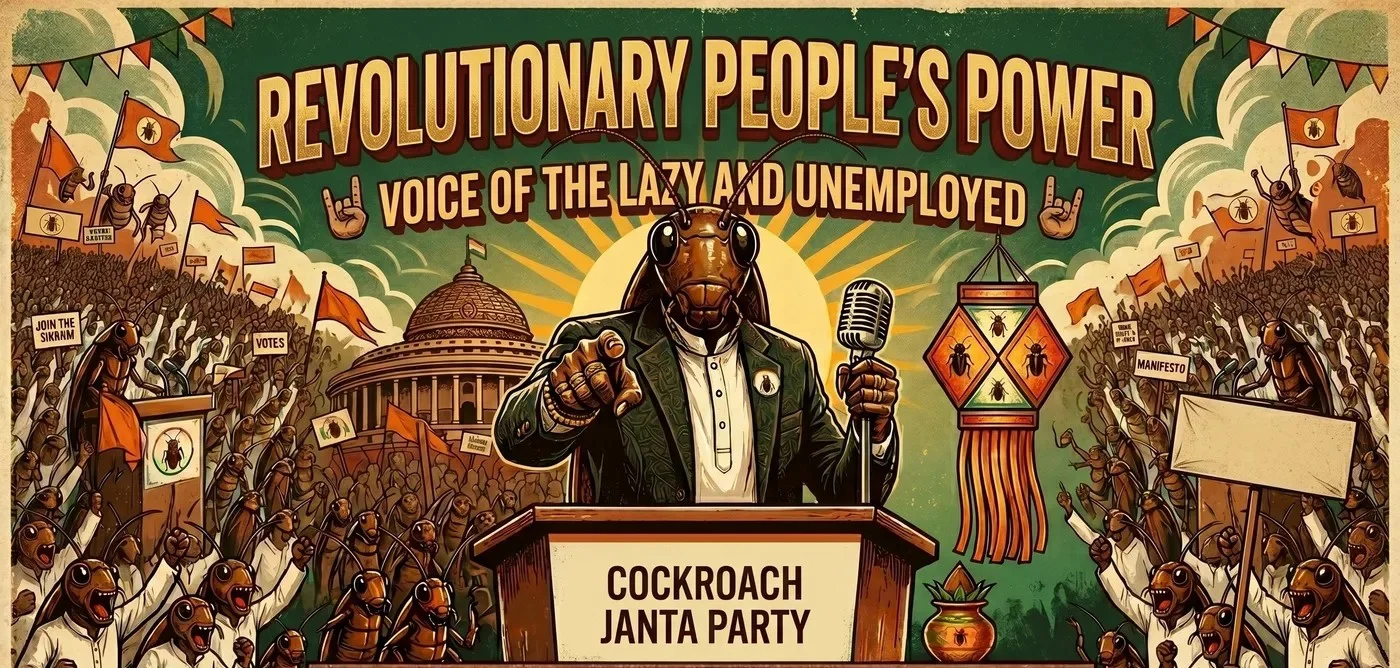
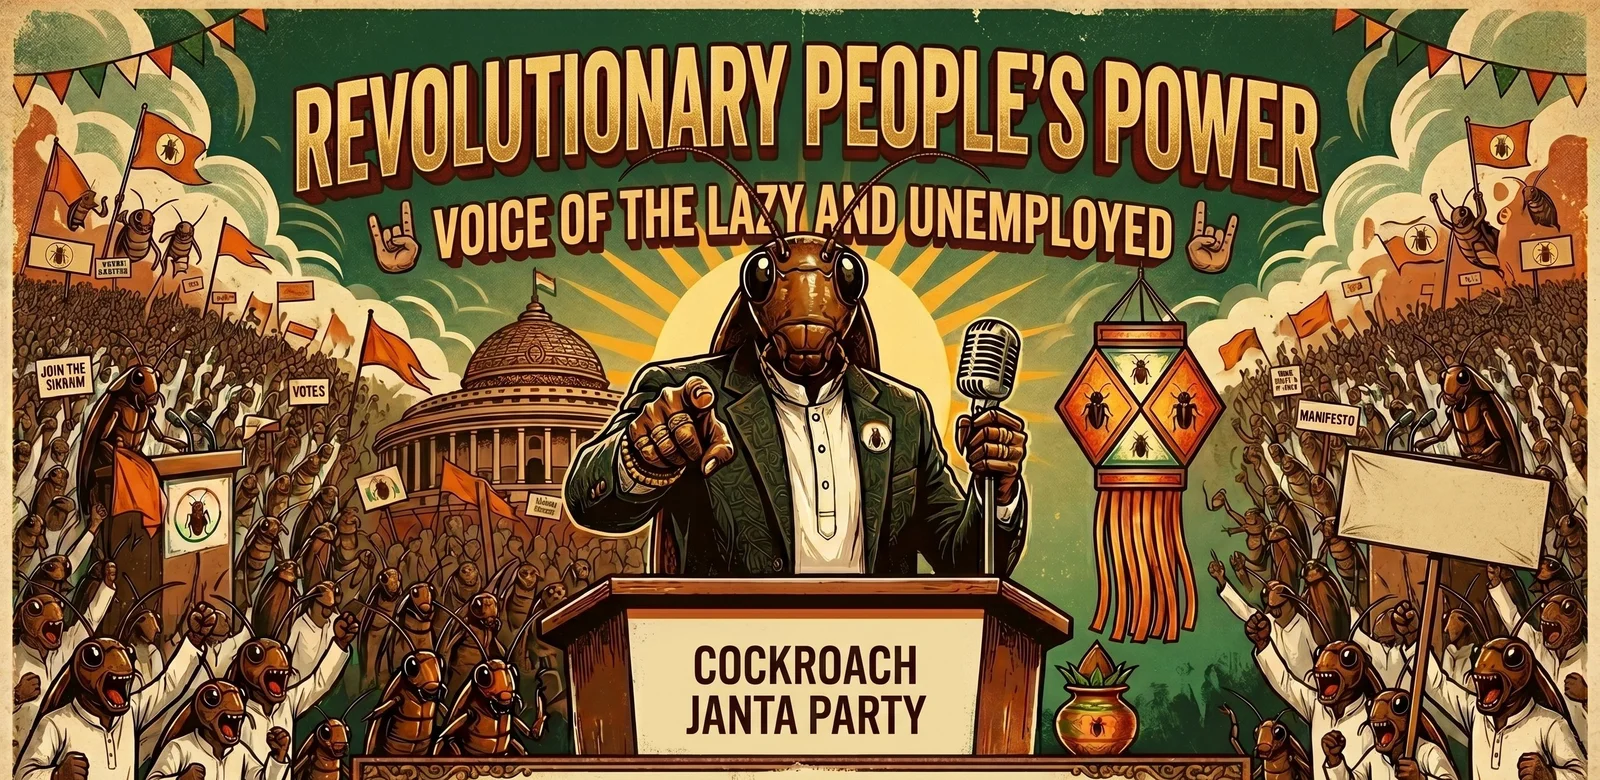
Add files via upload

diff --git a/index.html b/index.html
@@ -91,15 +91,16 @@
     #hero{
       min-height:100vh;
       display:flex;flex-direction:column;align-items:center;justify-content:flex-start;
-      text-align:center;padding:58px 0 0;
+      text-align:center;padding:0;
       position:relative;overflow:hidden;
     }
 
-    /* BANNER — full-width edge-to-edge */
+    /* BANNER — full-width edge-to-edge, with navbar clearance + breathing room */
     .hero-banner{
       width:100%;max-width:100%;display:block;
       object-fit:cover;object-position:center top;
-      max-height:80vh;
+      margin-top:58px; /* navbar height */
+      padding-top:12px; /* extra breathing space between nav and banner */
       animation:fadeIn .8s ease both;
     }
     .flag-bar{width:100%;height:5px;background:linear-gradient(90deg,var(--o) 33.3%,var(--w) 33.3% 66.6%,var(--g) 66.6%);flex-shrink:0;}
@@ -167,6 +168,92 @@
     .c-bar:nth-child(3){background:var(--gl);animation-delay:.4s}
     .c-bar:nth-child(4){background:#60A5FF;animation-delay:.6s}
     @keyframes barPulse{0%,100%{opacity:.3;transform:scaleX(.7)}50%{opacity:1;transform:scaleX(1)}}
+
+    /* ── MASCOT / CHARACTER SECTION ── */
+    #mascot{background:linear-gradient(160deg,rgba(0,71,171,.1) 0%,rgba(6,14,43,0) 50%,rgba(19,136,8,.08) 100%);}
+    .mascot-inner{display:grid;grid-template-columns:340px 1fr;gap:56px;align-items:center;max-width:980px;margin:0 auto;padding:80px 20px;}
+    .mascot-figure{position:relative;display:flex;flex-direction:column;align-items:center;}
+    .mascot-svg-wrap{
+      position:relative;
+      width:280px;height:280px;
+    }
+    /* animated glow ring */
+    .mascot-ring{
+      position:absolute;inset:-14px;border-radius:50%;
+      border:2px solid transparent;
+      background:conic-gradient(var(--o),var(--w),var(--g),var(--b),var(--o)) border-box;
+      -webkit-mask:linear-gradient(#fff 0 0) padding-box,linear-gradient(#fff 0 0);
+      -webkit-mask-composite:destination-out;mask-composite:exclude;
+      animation:spinRing 6s linear infinite;
+    }
+    @keyframes spinRing{to{transform:rotate(360deg);}}
+    .mascot-avatar{
+      width:280px;height:280px;border-radius:50%;overflow:hidden;
+      background:radial-gradient(circle at 40% 35%,#1a4a1e,#0d2b0f);
+      border:3px solid rgba(255,107,0,.4);
+      box-shadow:0 0 40px rgba(255,107,0,.2),0 20px 60px rgba(0,0,0,.5);
+      display:flex;align-items:center;justify-content:center;
+      position:relative;
+    }
+    /* The cockroach character SVG inside */
+    .mascot-avatar svg{width:220px;height:220px;}
+    .mascot-name{
+      font-family:'Playfair Display',serif;font-weight:900;
+      font-size:1.1rem;color:var(--ol);margin-top:16px;
+      letter-spacing:.04em;
+    }
+    .mascot-title{
+      font-family:'Rajdhani',sans-serif;font-size:.7rem;
+      letter-spacing:.2em;text-transform:uppercase;
+      color:rgba(255,255,255,.4);margin-top:4px;
+    }
+    .mascot-est{
+      display:inline-block;
+      background:rgba(255,107,0,.12);border:1px solid rgba(255,107,0,.3);
+      font-family:'Rajdhani',sans-serif;font-size:.68rem;letter-spacing:.18em;
+      text-transform:uppercase;color:var(--ol);padding:4px 14px;border-radius:12px;margin-top:10px;
+    }
+    /* speech bubble */
+    .mascot-speech{
+      background:rgba(255,255,255,.04);border:1px solid rgba(255,255,255,.1);
+      border-radius:12px 12px 12px 0;padding:28px 32px;position:relative;
+    }
+    .mascot-speech::before{
+      content:'';position:absolute;bottom:-1px;left:-18px;
+      width:0;height:0;
+      border-top:18px solid transparent;
+      border-right:20px solid rgba(255,255,255,.1);
+      border-bottom:0;
+    }
+    .mascot-speech::after{
+      content:'';position:absolute;bottom:0;left:-16px;
+      width:0;height:0;
+      border-top:16px solid transparent;
+      border-right:18px solid rgba(255,255,255,.04);
+      border-bottom:0;
+    }
+    .speech-tag{font-family:'Rajdhani',sans-serif;font-weight:700;font-size:.68rem;letter-spacing:.22em;text-transform:uppercase;color:var(--o);margin-bottom:10px;display:block;}
+    .speech-quote{
+      font-family:'Playfair Display',serif;font-style:italic;
+      font-size:clamp(1.1rem,2.5vw,1.55rem);line-height:1.45;color:#fff;
+      margin-bottom:18px;
+    }
+    .speech-body{font-size:.88rem;line-height:1.78;color:rgba(255,255,255,.6);}
+    .speech-body strong{color:#fff;}
+    .speech-stats{display:flex;gap:24px;margin-top:22px;flex-wrap:wrap;}
+    .sp-stat{display:flex;flex-direction:column;}
+    .sp-stat-n{font-family:'Rajdhani',sans-serif;font-weight:700;font-size:1.5rem;color:var(--ol);line-height:1;}
+    .sp-stat-l{font-size:.65rem;letter-spacing:.14em;text-transform:uppercase;color:rgba(255,255,255,.38);margin-top:3px;}
+
+    @media(max-width:768px){
+      .mascot-inner{grid-template-columns:1fr;gap:32px;padding:60px 16px;}
+      .mascot-figure{flex-direction:row;gap:20px;align-items:flex-start;justify-content:center;}
+      .mascot-svg-wrap,.mascot-avatar{width:120px;height:120px;}
+      .mascot-avatar svg{width:100px;height:100px;}
+      .mascot-ring{inset:-8px;}
+      .mascot-speech{border-radius:12px;}
+      .mascot-speech::before,.mascot-speech::after{display:none;}
+    }
 
     /* ── VISION ── */
     .vision-grid{display:grid;grid-template-columns:1fr 1fr;gap:22px;margin-top:44px;}
@@ -393,6 +480,115 @@
       <div class="c-bar"></div><div class="c-bar"></div>
       <div class="c-bar"></div><div class="c-bar"></div>
     </div>
+  </div>
+</section>
+
+<hr class="divider"/>
+
+<!-- MASCOT CHARACTER — Neta Ji Kakradev -->
+<section id="mascot">
+  <div class="mascot-inner reveal">
+
+    <!-- Character figure -->
+    <div class="mascot-figure">
+      <div class="mascot-svg-wrap">
+        <div class="mascot-ring"></div>
+        <div class="mascot-avatar">
+          <!-- Hand-drawn cockroach politician SVG character -->
+          <svg viewBox="0 0 220 220" xmlns="http://www.w3.org/2000/svg">
+            <!-- background glow -->
+            <radialGradient id="bodyGlow" cx="50%" cy="60%" r="50%">
+              <stop offset="0%" stop-color="#2a6b2e" stop-opacity=".6"/>
+              <stop offset="100%" stop-color="#0d2b0f" stop-opacity="0"/>
+            </radialGradient>
+            <circle cx="110" cy="130" r="80" fill="url(#bodyGlow)"/>
+
+            <!-- SUIT JACKET -->
+            <path d="M58 165 Q55 200 50 220 L170 220 Q165 200 162 165 Q145 155 132 148 L128 158 L110 162 L92 158 L88 148 Q75 155 58 165Z" fill="#1a3a1c"/>
+            <!-- jacket lapels -->
+            <path d="M92 148 L88 148 L72 155 L80 168 L92 158Z" fill="#142e16"/>
+            <path d="M128 148 L132 148 L148 155 L140 168 L128 158Z" fill="#142e16"/>
+            <!-- shirt white -->
+            <path d="M96 148 L92 158 L100 172 L110 170 L120 172 L128 158 L124 148 L110 152Z" fill="#e8e8e8"/>
+            <!-- tie — saffron -->
+            <path d="M106 152 L110 156 L114 152 L112 148 L108 148Z" fill="var(--o)"/>
+            <path d="M107 156 L110 178 L113 156 L110 162Z" fill="var(--o)"/>
+            <!-- CJP badge on lapel -->
+            <circle cx="88" cy="160" r="6" fill="#C8A83A"/>
+            <text x="88" y="163" text-anchor="middle" font-size="4" font-family="Arial" font-weight="bold" fill="#0d2b0f">CJP</text>
+
+            <!-- NECK -->
+            <rect x="103" y="128" width="14" height="22" rx="4" fill="#6B3A1F"/>
+
+            <!-- HEAD — cockroach -->
+            <ellipse cx="110" cy="105" rx="38" ry="35" fill="#7a3f1e"/>
+            <!-- head sheen -->
+            <ellipse cx="102" cy="92" rx="12" ry="8" fill="rgba(255,255,255,.08)" transform="rotate(-15,102,92)"/>
+
+            <!-- EYES — big compound -->
+            <ellipse cx="93" cy="98" rx="13" ry="14" fill="#111"/>
+            <ellipse cx="127" cy="98" rx="13" ry="14" fill="#111"/>
+            <!-- eye shine -->
+            <circle cx="97" cy="93" r="4" fill="#3a3aff" opacity=".6"/>
+            <circle cx="131" cy="93" r="4" fill="#3a3aff" opacity=".6"/>
+            <circle cx="94" cy="91" r="2" fill="#fff" opacity=".8"/>
+            <circle cx="128" cy="91" r="2" fill="#fff" opacity=".8"/>
+
+            <!-- ANTENNAE -->
+            <path d="M100 72 Q85 55 68 38" stroke="#6B3A1F" stroke-width="2.5" fill="none" stroke-linecap="round"/>
+            <path d="M120 72 Q135 55 152 38" stroke="#6B3A1F" stroke-width="2.5" fill="none" stroke-linecap="round"/>
+            <!-- antennae tips -->
+            <circle cx="68" cy="38" r="3.5" fill="#8B4A25"/>
+            <circle cx="152" cy="38" r="3.5" fill="#8B4A25"/>
+
+            <!-- MOUTH / expression — slight smirk -->
+            <path d="M101 118 Q110 125 119 118" stroke="#4a2008" stroke-width="2" fill="none" stroke-linecap="round"/>
+
+            <!-- pointing finger hand (right side) -->
+            <path d="M162 148 Q170 140 166 130 Q175 125 172 115 Q165 115 162 122 Q158 115 152 118 Q150 126 155 130 Q150 138 155 148Z" fill="#7a3f1e"/>
+            <!-- finger point -->
+            <path d="M166 130 Q178 120 186 108 Q180 104 172 115Z" fill="#7a3f1e"/>
+
+            <!-- left hand holding mic (simplified) -->
+            <rect x="45" y="138" width="8" height="28" rx="4" fill="#555" opacity=".8"/>
+            <ellipse cx="49" cy="135" rx="10" ry="12" fill="#444"/>
+            <!-- mic grille lines -->
+            <line x1="42" y1="133" x2="56" y2="133" stroke="#666" stroke-width="1"/>
+            <line x1="42" y1="136" x2="56" y2="136" stroke="#666" stroke-width="1"/>
+            <line x1="42" y1="139" x2="56" y2="139" stroke="#666" stroke-width="1"/>
+            <!-- hand holding mic -->
+            <path d="M35 148 Q32 145 36 138 Q42 135 50 138 Q54 144 50 150Z" fill="#7a3f1e"/>
+
+            <!-- Indian flag pin sparkle on jacket -->
+            <circle cx="135" cy="158" r="3" fill="var(--o)" opacity=".7"/>
+          </svg>
+        </div>
+      </div>
+      <div>
+        <div class="mascot-name">Neta Ji Kakradev</div>
+        <div class="mascot-title">Founder &amp; Chief Cockroach Officer</div>
+        <div class="mascot-est">🪳 Est. 2026</div>
+      </div>
+    </div>
+
+    <!-- Speech bubble -->
+    <div class="mascot-speech">
+      <span class="speech-tag">💬 Neta Ji Kakradev Speaks —</span>
+      <p class="speech-quote">"They called us lazy. We called their bluff. Now we're running for office."</p>
+      <p class="speech-body">
+        I founded the Cockroach Janta Party in <strong>2026</strong> because I was tired of watching the same suited people make the same broken promises while real Indians — students, farmers, workers — quietly suffered.<br><br>
+        Our <strong>Mission</strong> is simple: drag every real problem — unemployment, paper leaks, corruption, inflation — into the spotlight and refuse to let politicians look away.<br><br>
+        Our <strong>Vision</strong> is a corruption-free India where every citizen is treated with dignity. No more comparing us to animals. No more silencing dissent. No more manufactured distractions.<br><br>
+        <strong>We survived pesticide. We'll survive politics.</strong>
+      </p>
+      <div class="speech-stats">
+        <div class="sp-stat"><span class="sp-stat-n">2026</span><span class="sp-stat-l">Established</span></div>
+        <div class="sp-stat"><span class="sp-stat-n">10</span><span class="sp-stat-l">Real Issues</span></div>
+        <div class="sp-stat"><span class="sp-stat-n">₹0</span><span class="sp-stat-l">Corp. Money</span></div>
+        <div class="sp-stat"><span class="sp-stat-n">∞</span><span class="sp-stat-l">Determination</span></div>
+      </div>
+    </div>
+
   </div>
 </section>
 
@@ -703,7 +899,7 @@
           pledge:'✓ Taken — Loyal to a corruption-free India. Jai Hind.',
           _subject:'🪳 New CJP Member: '+name,
           _replyto:email||'[email redacted]',
-          _autoresponse:`Jai Hind, ${name}! 🇮🇳\n\nWelcome to the Cockroach Janta Party.\n\nYou have officially taken the oath:\n"I stand for a corruption-free India. No one calls us cowards. No one compares us to dogs. Not anymore."\n\nYou are now part of the swarm. We are unstoppable.\n\nStronger Together 🪳\n— Cockroach Janta Party\nFounded by Indian Youth\n\nYouTube: https://www.youtube.com/@CockroachJantaPartyindi\nInstagram: https://www.instagram.com/cockroachjantapartyindi/\nTwitter: https://x.com/Cockroach_jpart`
+          _autoresponse:`🪳 WELCOME TO THE SWARM, ${name}!\n\n━━━━━━━━━━━━━━━━━━━━━━━━━━━━━━━━\nCOCKROACH JANTA PARTY\nOFFICIAL MEMBERSHIP CERTIFICATE\n━━━━━━━━━━━━━━━━━━━━━━━━━━━━━━━━\n\nCongratulations, Comrade ${name}!\n\nYou have been officially inducted into the most unstoppable political force India has ever seen.\n\nThey tried to squash us. They sprayed pesticide. They called us lazy, unemployed, and irrelevant.\n\nWE. ARE. STILL. HERE.\n\n━━━━━━━━━━━━━━━━━━━━━━━━━━━━━━━━\nYOUR OATH (SIGNED IN INK, SEALED IN SPIRIT):\n━━━━━━━━━━━━━━━━━━━━━━━━━━━━━━━━\n\n"I stand for a corruption-free India.\nNo more paper leaks. No more mehngai.\nNo more treating Indian citizens like second-class humans.\nNo one calls us cowards. Not anymore."\n\nMember since: 2026\nParty: Cockroach Janta Party (CJP)\nStatus: ACTIVE SWARM MEMBER 🪳\n\n━━━━━━━━━━━━━━━━━━━━━━━━━━━━━━━━\nWHAT HAPPENS NEXT?\n━━━━━━━━━━━━━━━━━━━━━━━━━━━━━━━━\n\n1. Follow us everywhere — we move fast.\n2. Share this movement with 5 people.\n3. Show up. Speak up. Spread.\n\n📺 YouTube  → https://www.youtube.com/@CockroachJantaPartyindi\n📸 Instagram → https://www.instagram.com/cockroachjantapartyindi/\n🐦 Twitter   → https://x.com/Cockroach_jpart\n📧 Email     → [email redacted]\n\n━━━━━━━━━━━━━━━━━━━━━━━━━━━━━━━━\n\nRemember: cockroaches survived the dinosaurs, nuclear blast simulations, and 5 minutes of Indian news TV.\n\nWE WILL SURVIVE THIS TOO.\n\nStronger Together. Jai Hind. 🇮🇳🪳\n\n— Neta Ji Kakradev\n  Founder & Chief Cockroach Officer\n  Cockroach Janta Party | Est. 2026\n  Headquarters: Wherever the WiFi Works`
         })
       });
       if(res.ok){